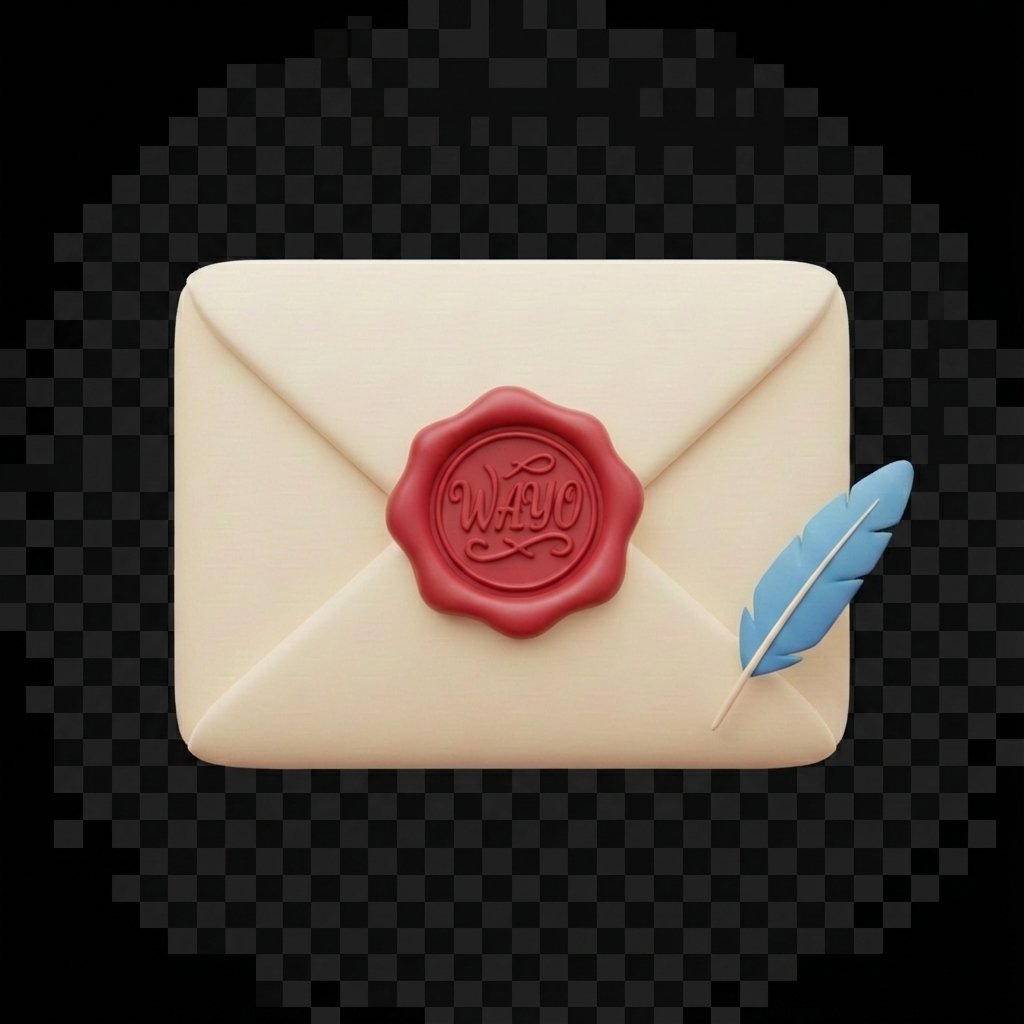
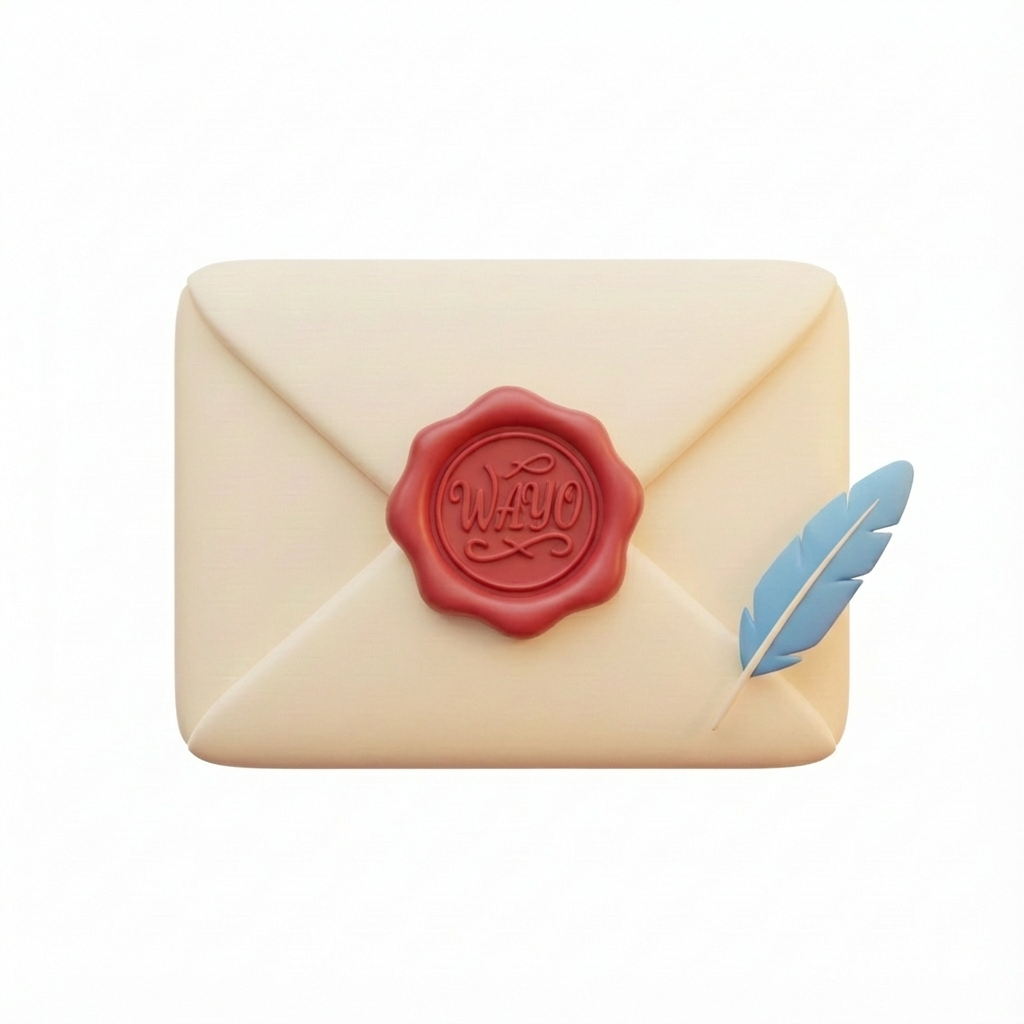
Design: Replace envelope image with solid white and apply multiply blend mode

diff --git a/frontend/src/components/PCInvitationView.tsx b/frontend/src/components/PCInvitationView.tsx
@@ -76,7 +76,7 @@ export default function PCInvitationView({ invitation, onRSVP, hasResponded, myT
                                 src="/images/wayo_envelope_3d.png"
                                 alt="Envelope"
                                 fill
-                                className="object-contain drop-shadow-[0_50px_100px_rgba(0,0,0,0.5)] group-hover:scale-105 transition-transform duration-700"
+                                className="object-contain drop-shadow-[0_50px_100px_rgba(0,0,0,0.5)] group-hover:scale-105 transition-transform duration-700 mix-blend-multiply"
                             />
 
                             {/* Wax Seal / Button */}

diff --git a/frontend/src/app/wayo/page.tsx b/frontend/src/app/wayo/page.tsx
@@ -129,7 +129,7 @@ export default function WayoHome() {
               src="/images/wayo_envelope_3d.png"
               alt="WAYO Envelope"
               fill
-              className="object-contain drop-shadow-[0_30px_50px_rgba(0,0,0,0.15)]"
+              className="object-contain drop-shadow-[0_30px_50px_rgba(0,0,0,0.15)] mix-blend-multiply"
             />
           </motion.div>
 
